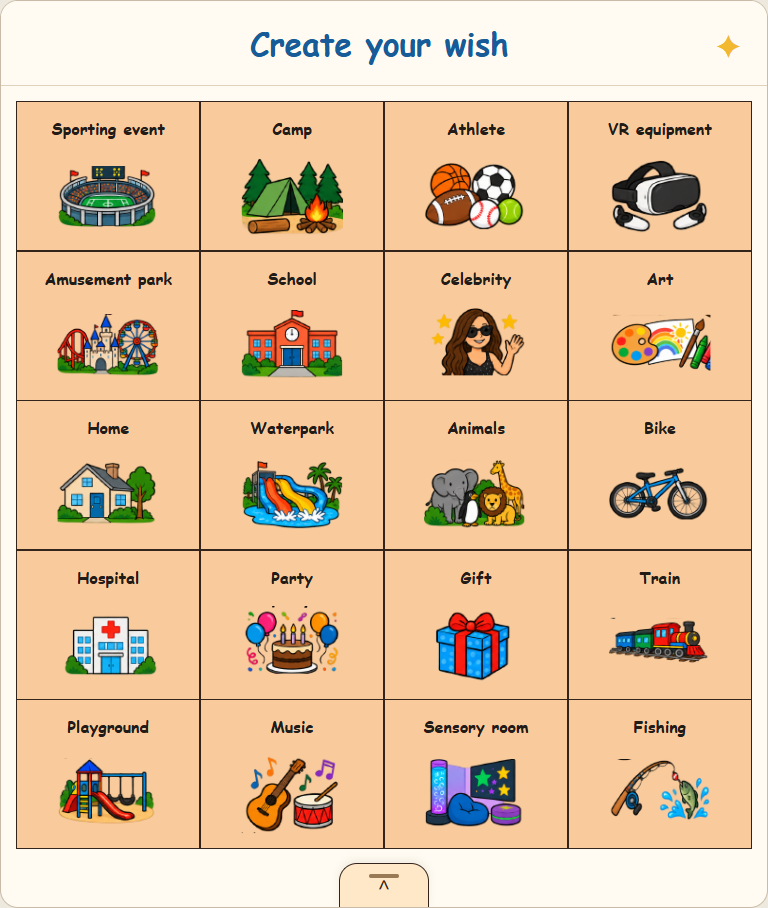
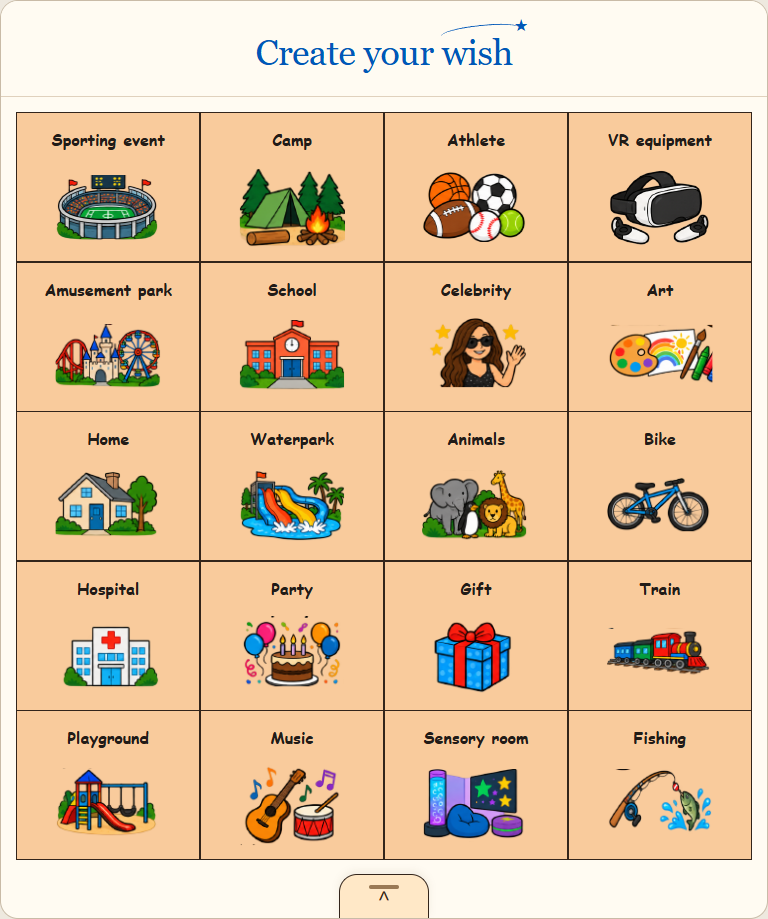
Echo wish wordmark and preserve compact communication columns

diff --git a/ios/WishExplorer/CommunicationBoardView.swift b/ios/WishExplorer/CommunicationBoardView.swift
@@ -14,19 +14,46 @@ struct CommunicationBoardView: View {
                 VStack(spacing: 14) {
                     phraseBar
                     ScrollView {
-                        LazyVGrid(columns: [GridItem(.adaptive(minimum: 125), spacing: 12)], spacing: 12) {
-                            ForEach(CommunicationWord.all) { word in
-                                PictureTile(label: word.label, selected: false, compact: true) {
-                                    store.addWord(word)
+                        VStack(spacing: 0) {
+                            LazyVGrid(columns: Array(repeating: GridItem(.flexible(minimum: 44), spacing: 0), count: 5), spacing: 0) {
+                                ForEach(CommunicationWord.mainRows.flatMap { $0 }) { word in
+                                    wordTile(word)
                                 }
-                                .accessibilityHint("Say \(word.speech) and add it to the sentence")
                             }
-                        }.padding(.bottom, 14)
+                            LazyVGrid(columns: Array(repeating: GridItem(.flexible(minimum: 44), spacing: 0), count: 4), spacing: 0) {
+                                ForEach(CommunicationWord.phraseWords) { word in
+                                    wordTile(word)
+                                }
+                            }
+                        }.padding(.bottom, 10)
                     }
                 }
                 .padding(.horizontal, 22).padding(.top, 14).padding(.bottom, 10)
                 .background(WishTheme.boardBackground)
             }
+        }
+    }
+
+    private func wordTile(_ word: CommunicationWord) -> some View {
+        PictureTile(label: word.label, selected: false, compact: true, backgroundColor: tileColor(word)) {
+            store.addWord(word)
+        }
+        .accessibilityHint("Say \(word.speech) and add it to the sentence")
+    }
+
+    private func tileColor(_ word: CommunicationWord) -> Color {
+        if word.label == "No / don't" { return Color(red: 0.98, green: 0.79, blue: 0.79) }
+        if CommunicationWord.phraseWords.contains(where: { $0.id == word.id }) {
+            return Color(red: 0.96, green: 0.82, blue: 0.89)
+        }
+        if ["Yes", "Finished"].contains(word.label) { return Color(red: 0.80, green: 0.93, blue: 0.81) }
+        switch word.group {
+        case .people: return Color(red: 1, green: 0.94, blue: 0.68)
+        case .actions: return Color(red: 0.80, green: 0.93, blue: 0.81)
+        case .questions: return Color(red: 0.89, green: 0.83, blue: 0.95)
+        case .feelings:
+            if word.label == "Help" { return Color(red: 0.80, green: 0.93, blue: 0.81) }
+            return Color(red: 0.83, green: 0.92, blue: 0.98)
         }
     }
 

diff --git a/ios/WishExplorer/WishWordmark.swift b/ios/WishExplorer/WishWordmark.swift
@@ -1,0 +1,53 @@
+import SwiftUI
+
+/// A typeset heading with an original arch and star; it does not embed an official logo.
+struct WishWordmark: View {
+    @ScaledMetric(relativeTo: .largeTitle) private var ornamentScale: CGFloat = 40
+
+    var body: some View {
+        ViewThatFits(in: .horizontal) {
+            HStack(alignment: .firstTextBaseline, spacing: ornamentScale * 0.15) {
+                Text("Create your")
+                wish
+            }.fixedSize(horizontal: true, vertical: false)
+            VStack(spacing: ornamentScale * 0.4) {
+                Text("Create your")
+                wish
+            }.multilineTextAlignment(.center)
+        }
+        .font(.custom("Georgia", size: 40, relativeTo: .largeTitle))
+        .foregroundStyle(WishTheme.blue)
+        .padding(.top, ornamentScale * 0.35)
+        .accessibilityElement(children: .ignore)
+        .accessibilityLabel("Create your wish")
+        .accessibilityAddTraits(.isHeader)
+    }
+
+    private var wish: some View {
+        Text("wish")
+            .overlay(alignment: .topLeading) {
+                GeometryReader { geometry in
+                    WishWordmarkArch()
+                        .stroke(WishTheme.blue, style: StrokeStyle(lineWidth: max(1.2, ornamentScale * 0.035), lineCap: .round))
+                        .frame(width: geometry.size.width * 1.12, height: ornamentScale * 0.45)
+                        .offset(x: -geometry.size.width * 0.06, y: -ornamentScale * 0.26)
+                    WishStar().fill(WishTheme.blue)
+                        .frame(width: ornamentScale * 0.25, height: ornamentScale * 0.25)
+                        .rotationEffect(.degrees(10))
+                        .position(x: geometry.size.width * 1.01, y: -ornamentScale * 0.05)
+                }.accessibilityHidden(true)
+            }
+    }
+}
+
+private struct WishWordmarkArch: Shape {
+    func path(in rect: CGRect) -> Path {
+        Path { path in
+            path.move(to: CGPoint(x: rect.minX, y: rect.maxY))
+            path.addQuadCurve(
+                to: CGPoint(x: rect.maxX * 0.95, y: rect.maxY * 0.61),
+                control: CGPoint(x: rect.midX * 0.94, y: -rect.height * 0.38)
+            )
+        }
+    }
+}

diff --git a/ios/WishExplorer/PictureTile.swift b/ios/WishExplorer/PictureTile.swift
@@ -5,24 +5,25 @@ struct PictureTile: View {
     let label: String
     var selected = false
     var compact = false
+    var backgroundColor: Color? = nil
     var action: () -> Void
 
     var body: some View {
         Button(action: action) {
-            VStack(spacing: compact ? 8 : 12) {
+            VStack(spacing: compact ? 5 : 12) {
                 Text(PictureCatalog.shared.item(label: label)?.label ?? label)
-                    .font(compact ? .system(.body, design: .rounded, weight: .bold) : .system(.title3, design: .rounded, weight: .bold))
+                    .font(compact ? .system(.callout, design: .rounded, weight: .bold) : .system(.title3, design: .rounded, weight: .bold))
                     .multilineTextAlignment(.center)
                     .foregroundStyle(.black)
                     .fixedSize(horizontal: false, vertical: true)
                 PictureSymbol(label: label)
-                    .frame(height: compact ? 72 : 105)
+                    .frame(height: compact ? 50 : 105)
                     .accessibilityHidden(true)
             }
-            .padding(compact ? 12 : 16)
-            .frame(maxWidth: .infinity, minHeight: compact ? 126 : 174)
-            .background(WishTheme.picturePeach, in: RoundedRectangle(cornerRadius: 4))
-            .overlay(RoundedRectangle(cornerRadius: 4).stroke(.black, lineWidth: selected ? 3 : 1.5))
+            .padding(compact ? 5 : 16)
+            .frame(maxWidth: .infinity, minHeight: compact ? 96 : 174)
+            .background(backgroundColor ?? WishTheme.picturePeach, in: RoundedRectangle(cornerRadius: compact ? 0 : 4))
+            .overlay(RoundedRectangle(cornerRadius: compact ? 0 : 4).stroke(.black, lineWidth: selected ? 3 : compact ? 1 : 1.5))
             .overlay(alignment: .topTrailing) {
                 if selected {
                     Image(systemName: "checkmark.circle.fill").foregroundStyle(.black, .white).padding(7).accessibilityHidden(true)

diff --git a/ios/WishExplorer/WishRootView.swift b/ios/WishExplorer/WishRootView.swift
@@ -33,7 +33,7 @@ struct WishRootView: View {
             .background(WishTheme.background)
             .safeAreaInset(edge: .bottom, spacing: 0) {
                 CommunicationBoardView()
-                    .frame(maxHeight: store.boardExpanded ? max(280, geometry.size.height * 0.52) : nil)
+                    .frame(maxHeight: store.boardExpanded ? max(280, geometry.size.height * 0.82) : nil)
             }
             .disabled(store.isPaused)
             .accessibilityHidden(store.isPaused)
@@ -79,9 +79,7 @@ struct WelcomeView: View {
                 WishStar().fill(WishTheme.yellow).frame(width: 110, height: 110).rotationEffect(.degrees(-12))
                 Image(systemName: "sparkle").font(.system(size: 32)).foregroundStyle(WishTheme.blue).offset(x: 90, y: -65)
             }.padding(.top, 16).accessibilityHidden(true)
-            Text("Big dreams.\nYour way.")
-                .font(.system(.largeTitle, design: .rounded, weight: .bold))
-                .multilineTextAlignment(.center).foregroundStyle(WishTheme.ink)
+            WishWordmark()
             Text("Tap a picture. Explore an idea.\nTake all the time you need.")
                 .font(.title2).multilineTextAlignment(.center).foregroundStyle(WishTheme.secondary)
             PrimaryWishButton(title: "Create your wish", symbol: "sparkles") {
@@ -105,7 +103,7 @@ struct InterestView: View {
     var body: some View {
         VStack(spacing: 22) {
             VStack(spacing: 9) {
-                Text("Create your wish").font(.system(.largeTitle, design: .rounded, weight: .bold)).foregroundStyle(.black).accessibilityAddTraits(.isHeader)
+                WishWordmark()
                 Text("What would you like? Choose a picture.").font(.title3).foregroundStyle(WishTheme.secondary)
             }.frame(maxWidth: .infinity)
             LazyVGrid(columns: columns, spacing: 8) {

diff --git a/ios/WishExplorer/Models.swift b/ios/WishExplorer/Models.swift
@@ -163,13 +163,18 @@ struct CommunicationWord: Identifiable {
         .init(label: "When", speech: "When?", symbol: "calendar", group: .questions),
         .init(label: "Why", speech: "Why?", symbol: "questionmark.bubble.fill", group: .questions)
     ]
-    static let all: [Self] = {
-        let sourceOrder = [
-            "I", "Want", "See", "Wet", "More", "You", "Go", "Help", "Dry", "Where",
-            "We", "Stop", "Act", "Hot", "What", "Watch", "Like", "Give", "Cold", "When",
-            "Wish", "Eat", "Meet", "Tired", "Who", "Yes", "No / don't", "Finished",
-            "This is fun!", "Thank you!", "I need time to think", "I need a break", "Happy", "Why"
+    static let mainRows: [[Self]] = {
+        let labels = [
+            ["I", "Want", "See", "Wet", "More"],
+            ["You", "Go", "Help", "Dry", "Where"],
+            ["We", "Stop", "Act", "Hot", "What"],
+            ["Watch", "Like", "Give", "Cold", "When"],
+            ["Wish", "Eat", "Meet", "Tired", "Who"],
+            ["Yes", "No / don't", "Finished", "Happy", "Why"]
         ]
-        return sourceOrder.compactMap { label in vocabulary.first { $0.label == label } }
+        return labels.map { row in row.compactMap { label in vocabulary.first { $0.label == label } } }
     }()
+    static let phraseWords: [Self] = ["This is fun!", "Thank you!", "I need time to think", "I need a break"]
+        .compactMap { label in vocabulary.first { $0.label == label } }
+    static let all: [Self] = mainRows.flatMap { $0 } + phraseWords
 }

diff --git a/ios/WishExplorerTests/WishDraftTests.swift b/ios/WishExplorerTests/WishDraftTests.swift
@@ -60,6 +60,28 @@ final class WishDraftTests: XCTestCase {
         }
     }
 
+    func testCoreRowsKeepPronounsActionsAndQuestionsInFamiliarColumns() {
+        let expected = [
+            ["I", "Want", "See", "Wet", "More"],
+            ["You", "Go", "Help", "Dry", "Where"],
+            ["We", "Stop", "Act", "Hot", "What"],
+            ["Watch", "Like", "Give", "Cold", "When"],
+            ["Wish", "Eat", "Meet", "Tired", "Who"],
+            ["Yes", "No / don't", "Finished", "Happy", "Why"]
+        ]
+        XCTAssertEqual(CommunicationWord.mainRows.map { $0.map(\.label) }, expected)
+        XCTAssertEqual(CommunicationWord.mainRows.prefix(3).map { $0.first?.label }, ["I", "You", "We"])
+        XCTAssertTrue(CommunicationWord.mainRows.allSatisfy { $0.count == 5 })
+    }
+
+    func testAgencyPhraseFooterHasFourAdjacentDistinctChoices() {
+        XCTAssertEqual(CommunicationWord.phraseWords.map(\.label), ["This is fun!", "Thank you!", "I need time to think", "I need a break"])
+        XCTAssertEqual(CommunicationWord.all.count, 34)
+        XCTAssertEqual(Set(CommunicationWord.all.map(\.id)).count, 34)
+        XCTAssertTrue(Set(CommunicationWord.mainRows.flatMap { $0 }.map(\.id))
+            .isDisjoint(with: Set(CommunicationWord.phraseWords.map(\.id))))
+    }
+
     @MainActor
     func testPreferencesAreNotRetainedUnlessCaregiverOptsIn() throws {
         let suite = "WishExplorerTests.\(UUID().uuidString)"

diff --git a/ios/scripts/check_resources.py b/ios/scripts/check_resources.py
@@ -23,6 +23,18 @@ assert raw[25] == 2, "App icon must be opaque RGB"
 models = (root / "WishExplorer/Models.swift").read_text(encoding="utf-8")
 labels = re.findall(r'\.init\(label: "([^"]+)"', models)
 assert len(labels) == len(set(labels)) == 34, "Core communication concepts must be complete and unique"
+rows_match = re.search(r"let labels = (\[.*?\n        \])", models, re.S)
+assert rows_match, "Core row declaration missing"
+core_rows = json.loads(rows_match.group(1))
+assert len(core_rows) == 6 and all(len(row) == 5 for row in core_rows)
+assert [row[0] for row in core_rows[:3]] == ["I", "You", "We"]
+phrase_match = re.search(r"static let phraseWords: \[Self\] = (\[[^\n]+\])", models)
+assert phrase_match, "Core phrase footer missing"
+core_phrases = json.loads(phrase_match.group(1))
+assert core_phrases == ["This is fun!", "Thank you!", "I need time to think", "I need a break"]
+packed_labels = [label for row in core_rows for label in row] + core_phrases
+assert len(packed_labels) == len(set(packed_labels)) == 34
+assert set(packed_labels) == set(labels)
 pictures = root / "WishExplorer/Resources/Pictures"
 manifest_path = pictures / "picture-catalog.json"
 manifest = json.loads(manifest_path.read_text(encoding="utf-8"))
@@ -46,5 +58,6 @@ for item in manifest["items"]:
 test_count = len(re.findall(r"func test", (root / "WishExplorerTests/WishDraftTests.swift").read_text()))
 print(json.dumps({"valid_plists": len(plists), "valid_asset_catalog_files": len(assets),
                   "opaque_icon": "1024x1024", "interest_pictures": 20, "core_pictures": len(labels),
+                  "core_grid": "5 columns x 6 rows + 4 phrase tiles",
                   "unchanged_source_picture_files": len(manifest["atlases"]),
                   "native_tests_written_not_run": test_count, "swift_compiled": False}))

diff --git a/backend/docs/ux-components.md b/backend/docs/ux-components.md
@@ -46,7 +46,11 @@ The parent tile supplies the spoken/accessible name. A decorative image inside a
 
 One centered handle at the bottom of the screen opens and closes the drawer. Support both a tap and an up/down drag on that handle. Dragging is an optional convenience: opening or closing the board must never require a gesture that a child cannot perform. Provide an accessible button label and expanded/collapsed state. Keep the drawer available through the existing park journey and postcard screens.
 
-The drawer contains exactly the source board's 54 concepts **minus the 20 noun-interest pictures on the home screen**. Preserve the remaining order. This produces 34 concepts:
+The drawer contains exactly the source board's 54 concepts **minus the 20 noun-interest pictures on the home screen**. Keep familiar spatial relationships rather than flowing all words into an adaptive grid. This produces 34 concepts.
+
+The main grid has five fixed columns and six rows, with one-pixel dividers and no card gutters. `I`, `You`, and `We` share the first column; actions occupy the next two columns; descriptions and questions stay at the right. The sixth row is **Yes · No/don't · Finished · Happy · Why**. A separate touching row below holds **This is fun! · Thank you! · I need time to think · I need a break**. This arrangement removes the topic columns while preserving the remaining column relationships. The five-column arrangement remains stable on compact views; vertical scrolling and text wrapping handle limited height and larger type.
+
+For provenance, the original source rows are:
 
 | Source row | Core concepts retained in reading order |
 | --- | --- |
@@ -57,7 +61,11 @@ The drawer contains exactly the source board's 54 concepts **minus the 20 noun-i
 | 5 | wish; eat; meet; tired; who |
 | 6 | Yes; no/don’t; finished; This is fun!; Thank you!; I need time to think.; I need a break.; happy; why |
 
-These are source-row groupings for checking coverage, not new tabs or redundant categories to add to the child interface. Reuse the communication selection, phrase, speech, clear, pause, and resume behaviors already present in the app. Keep “no/don’t,” “stop,” “finished,” time to think, and a break reachable. Do not convert a refusal or request to pause into a wish choice.
+These source rows check vocabulary coverage; the compact five-column layout above defines the current display. Reuse the communication selection, phrase, speech, clear, pause, and resume behaviors already present in the app. Keep “no/don’t,” “stop,” “finished,” time to think, and a break reachable. Do not convert a refusal or request to pause into a wish choice.
+
+## `WishWordmark`
+
+“Create your wish” uses a reusable blue serif heading, with a small original arch and star above “wish” to echo the supplied Make-A-Wish lettering style. Georgia regular is used as a close visual approximation, not an assertion that it is the organization's exact typeface. Keep it one accessible heading; decorative shapes do not create extra speech stops. Picture-tile labels retain their existing childlike font.
 
 ## API boundary and verification status
 

diff --git a/ios/README.md b/ios/README.md
@@ -4,6 +4,10 @@ Native SwiftUI prototype, iPadOS 17 and later. The main screen presents **20 pic
 
 The source's other **34 core communication pictures** live entirely inside the pull-up drawer. The collapsed drawer leaves only a small centered rounded tab with a grabber and chevron. Tap the tab, drag it up/down, or use its accessible button action to open and close it. There is no My Voice section or quick-response toolbar. Interest nouns are not duplicated in the drawer. Stop, break, finished, and time-to-think remain available inside it. Speech uses the system speech synthesizer. No microphone permission, account, child name, photograph, health information, advertising, or analytics is requested.
 
+The compact drawer uses five stable columns and six rows, followed by four adjacent phrase tiles. I/You/We stay vertically aligned in the first column, and the original action, descriptor, and question columns remain alongside each other after removing the interest topics. Tiles have no gutters, thin dividers, 5-point internal padding, and a 96-point minimum height; text wraps with Dynamic Type and the drawer scrolls when necessary. The drawer can occupy up to 82% of the available app height. `CommunicationWord.mainRows` and `phraseWords` define the spatial arrangement and have ordering tests.
+
+`WishWordmark` supplies the blue Georgia regular **Create your wish** heading with an original drawn arch and star over “wish.” It scales with Dynamic Type, wraps to a stacked heading on narrow layouts, and has one accessible heading label. It is typeset native text and shape code, not a bitmap or the official logo. Main picture-tile type remains unchanged.
+
 `PictureTile` and `PictureSymbol` are reused on the main board and inside the drawer. `Resources/Pictures` bundles the supplied source PNG objects unchanged and the shared `picture-catalog.json`; native runtime viewports select each pictogram from its atlas. Labels are rendered outside the image. No recolored, generated, or authored cropped replacement of those supplied pictograms is included.
 
 ## Open and run on a Mac

diff --git a/docs/product-brief.md b/docs/product-brief.md
@@ -18,6 +18,8 @@ Preserve all 54 labels across two surfaces: 20 topic tiles in the main screen an
 
 The communication drawer is collapsed by default, with only a small centered grab tab visible at the bottom. Tapping the tab or dragging it up/down opens or closes the drawer; dragging is optional. Remove the previous “My voice” section and the permanent quick-action row. No, stop, think, break, and finished remain inside the core drawer as pictured choices. Do not require speech, timed completion, color recognition alone, or a long sentence before allowing progress. A child's “no” or request to stop should not silently become a wish selection.
 
+Use stable, tightly packed columns: I/You/We vertically aligned, actions next to them, and descriptions/questions on the right. The 30 short core words form a five-column grid; the four longer social/agency phrases sit in one row below. Do not reflow pronouns to different columns as the screen width changes. The top “Create your wish” heading uses blue serif lettering with a decorative arch and star inspired by the supplied wordmark.
+
 ## Caregiver experience
 
 Keep configuration and reset controls away from the main child choices. Explain that this is a local exploration, and that actual wish discovery, application, approvals, and travel planning take place with the responsible organization. The prototype does not collect the medical, contact, identity, or family information found in the intake document.
